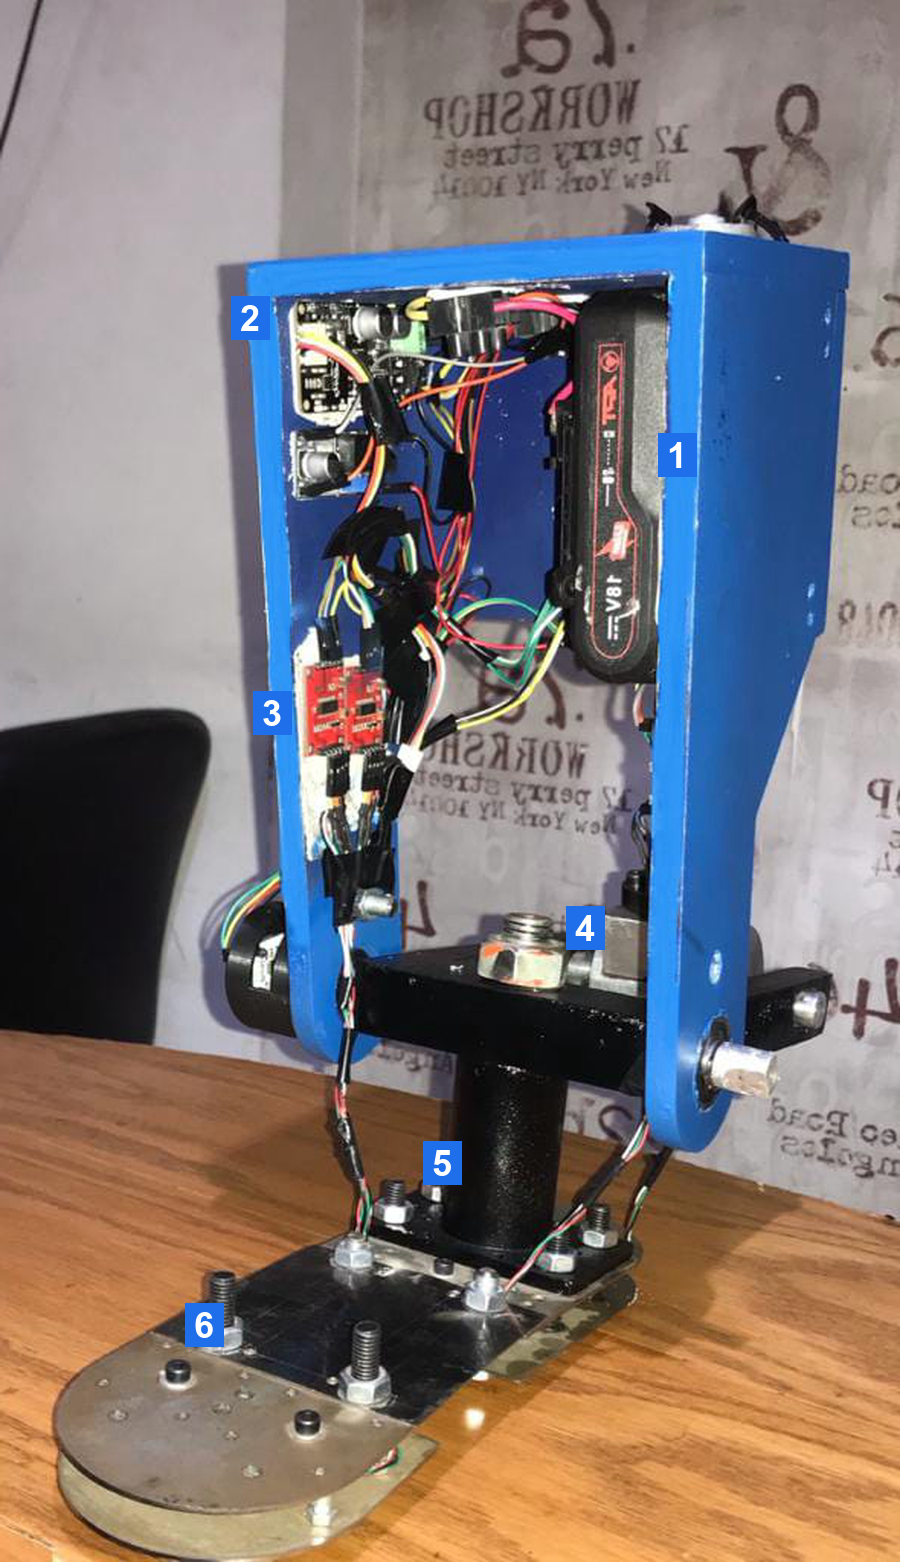
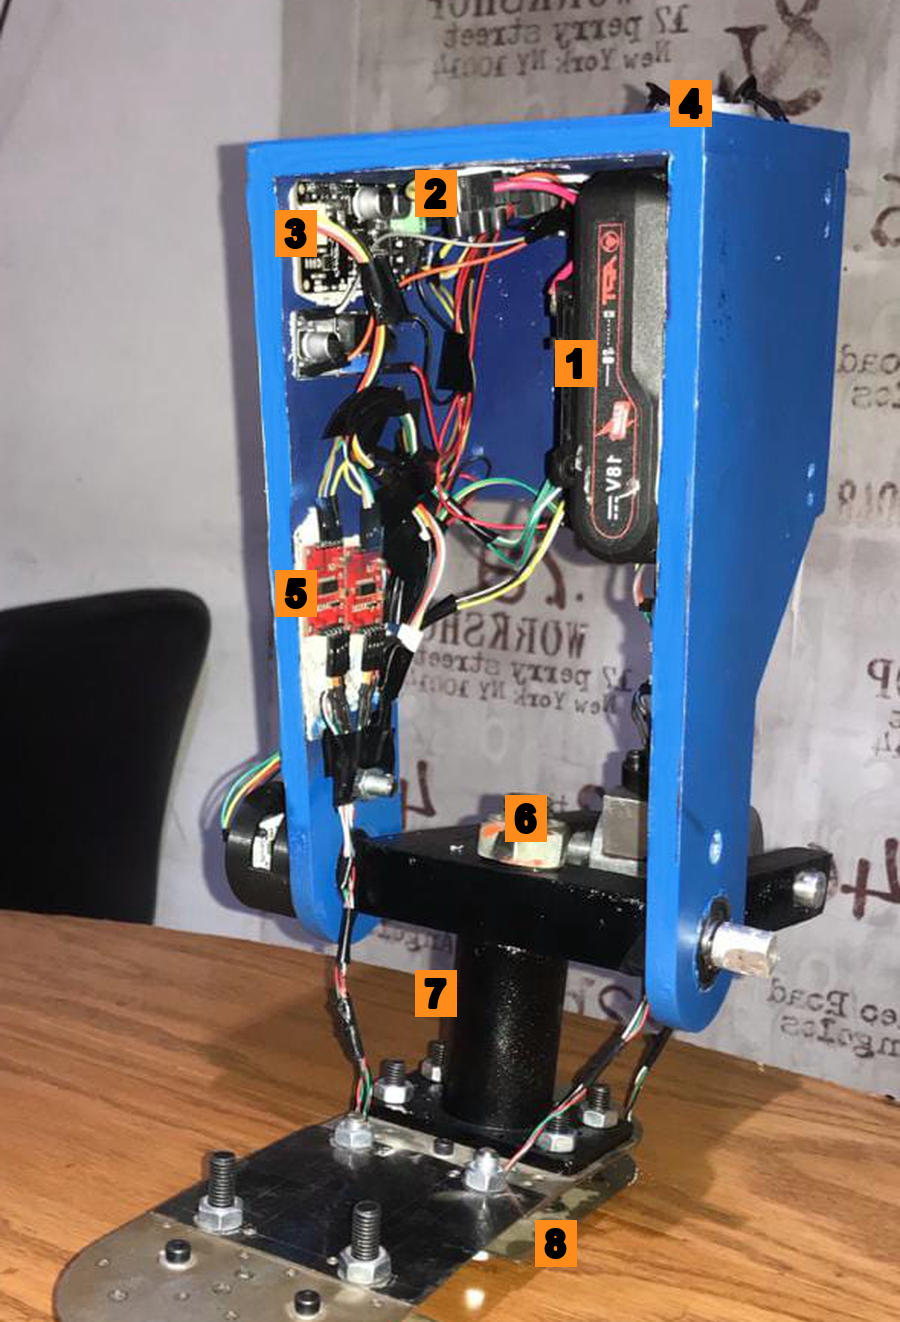
Unify title-image sizes, fix badge contrast, complete the annotation, rebuild How it works from the presentation
Title block: set a common display height on all three images instead of
mismatched percentages, so the row reads as one unit rather than three
oddly-sized panels.

Electronics-bay photo: badges were blue on a blue-painted frame, nearly
unreadable. Switched to high-contrast orange. Went from 6 labelled
components to 8, after zooming into each one rather than guessing:
battery, power connector, a small regulator board off the battery leads
(left unidentified rather than guessed, since it does not match the
presentation's own LM2596 reference photo), the RS-550S motor, the HX711
amplifiers, the ball-screw coupling, the shin housing, and the foot plate.
Cropped tighter for a better aspect-ratio match with the other two.

How it works: rebuilt from the team's own final-presentation diagrams
rather than my own abstraction. The control-loop diagram now carries the
same boxes, arrows and wording as their state-machine/PID block diagram
(slides 32 and 36), recoloured for legibility, with one spelling fix
(SESNORS -> SENSORS) and nothing else changed. Added their gait-cycle
phase diagram the same way. Both check out exactly against the firmware.

Added three of the presentation's own photos/charts that are not
copyrighted: strain-gauge placement on the real foot, the AS5600 encoder
at the joint, and the ankle-angle-vs-gait-cycle chart -- which lines up
almost exactly with the -6.5 to +13.7 degree range already worked out
from the raw encoder counts.
[…]

diff --git a/README.md b/README.md
@@ -4,9 +4,9 @@
 
 <table>
 <tr>
-<td width="33%" align="center"><img src="media/hardware/cad-rotation.gif" width="92%"></td>
-<td width="33%" align="center"><img src="media/hardware/ankle-assembled.png" width="100%"></td>
-<td width="33%" align="center"><img src="media/hardware/ankle-electronics-bay.png" width="100%"></td>
+<td width="33%" align="center"><img src="media/hardware/cad-rotation.gif" height="300"></td>
+<td width="33%" align="center"><img src="media/hardware/ankle-assembled.png" height="300"></td>
+<td width="33%" align="center"><img src="media/hardware/ankle-electronics-bay.png" height="300"></td>
 </tr>
 <tr>
 <td align="center"><i>As designed</i></td>
@@ -15,7 +15,7 @@
 </tr>
 </table>
 
-Inside the frame: **1** 18 V drill battery · **2** regulator and driver boards · **3** HX711 load cell amplifiers · **4** ball screw nut · **5** shin housing, ball screw inside · **6** foot plate, load cells underneath
+Inside the frame: **1** 18 V drill battery · **2** battery power connector · **3** small regulator board off the battery leads (exact chip not identified from the photo) · **4** RS-550S motor · **5** HX711 load-cell amplifiers · **6** ball screw nut · **7** shin housing, ball screw inside · **8** foot plate, load cells underneath, AS5600 encoder wiring at the joint
 
 > **Archived academic project, 2021.** This was our B.Sc. graduation project in Mechatronics Engineering at the Arab Academy for Science, Technology & Maritime Transport (AASTMT), Cairo. It is kept here as a record of the work. Nobody maintains it, and it is not a medical device.
 
@@ -37,44 +37,102 @@ So we asked a narrow question: could we build one locally, from parts available 
 
 ## How it works
 
-The ankle is a closed position loop with an outer layer that decides *what position to ask for*.
+Control is split into two layers, the way the team's own presentation laid it out: a high-level **state machine** decides which part of the gait cycle the wearer is in, and a low-level **PID loop** drives the motor to reach the angle that phase calls for.
 
 ```mermaid
 flowchart LR
-    TOE["2x load cell<br/>(toe)"] --> HXA[HX711]
-    HEEL["2x load cell<br/>(heel)"] --> HXB[HX711]
-    HXA --> GP{"gait phase<br/>toe / heel contact"}
-    HXB --> GP
-    GP --> TG["TrajGen<br/>picks trajectory segment"]
-    TG -->|"setpoint"| PID["PID loop"]
-    PID -->|"PWM + direction"| DRV["Cytron MD10C"]
-    DRV --> MOT["RS-550S motor"]
-    MOT --> SCREW["SFU1605 ball screw"]
-    SCREW --> JOINT["ankle joint"]
-    JOINT --> ENC["AS5600 encoder"]
-    ENC -->|"measured position"| PID
+    classDef hi fill:#dbeafe,stroke:#1f6feb,stroke-width:2px,color:#0b3d91
+    classDef lo fill:#dcfce7,stroke:#15803d,stroke-width:2px,color:#14532d
+    classDef drive fill:#fde68a,stroke:#b45309,stroke-width:2px,color:#78350f
+    classDef fb fill:#f3f4f6,stroke:#6b7280,stroke-width:2px,color:#1f2937
+
+    SM["State machine<br/>(high-level controller)"]:::hi --> WT["Walking trajectory<br/>(TrajGen)"]:::hi
+    WT -->|setpoint| SUM((" + / − ")):::lo
+    SUM --> PID["PID controller<br/>(low-level controller)"]:::lo
+    PID -->|desired angle response| DRV["H-bridge driver<br/>(Cytron MD10C)"]:::drive
+    DRV --> MOT["DC motor<br/>(RS-550S)"]:::drive
+    MOT --> JOINT[Ankle joint]:::drive
+    JOINT --> FOOT[Foot]:::drive
+    FOOT --> GND[Ground]:::drive
+
+    ENC["Magnetic encoder<br/>(AS5600)"]:::fb -->|position feedback| SUM
+    SG["Strain gauge sensors<br/>(load cells)"]:::fb -->|weight feedback| SM
 ```
 
 Reading it as a cycle:
 
-1. **Where is the wearer in their step?** Four load cells under the foot report toe and heel contact. The combination identifies the gait phase.
-2. **What angle should the ankle be at?** `TrajGen` plays the segment of the reference trajectory that belongs to that phase, one sample at a time. Each sample is the setpoint.
-3. **Get there.** The PID loop compares the setpoint against the encoder and drives the motor through the H-bridge. The ball screw turns rotation into the linear travel that moves the joint.
-4. **Measure and repeat.** The encoder closes the loop.
+1. **Where is the wearer in their step?** The strain gauges under the foot report weight distribution as heel and toe contact. That feeds the state machine, which is entirely what decides the gait phase, not a timer.
+2. **What angle should the ankle be at?** The trajectory generator plays the segment of the reference walking trajectory that belongs to that phase, one sample at a time. Each sample is the setpoint.
+3. **Get there.** The PID controller compares the setpoint against the measured position and drives the motor through the H-bridge. The output is the desired angle response, turned into PWM and a direction.
+4. **Measure and repeat.** The magnetic encoder closes the position loop; the strain gauges keep telling the state machine where the next phase begins.
 
-Every one of those steps is its own FreeRTOS task, so sensing, planning and control run concurrently rather than in one polling loop.
+Every one of those steps runs as its own FreeRTOS task, so sensing, planning and control run concurrently rather than in one polling loop.
+
+This diagram carries the same boxes, arrows and labels as the team's original control-strategy diagram (from the final presentation, slides 32 and 36) — recoloured for legibility and with one typo fixed (**"STRAIN GAUGES SESNORS"** → **SENSORS**). No wording or logic was changed. It checks out exactly against the firmware: `toe_cells`/`heel_cells` set `heel_state`/`toe_state`, `TrajGen` is the state machine picking a trajectory segment from those two booleans, and `pid_control.cpp` is the summing junction and PID block driving the Cytron driver.
+
+### The gait cycle it targets
+
+```mermaid
+flowchart TD
+    classDef top fill:#93c5fd,stroke:#1f6feb,stroke-width:2px,color:#0b3d91
+    classDef stance fill:#bbf7d0,stroke:#15803d,stroke-width:2px,color:#14532d
+    classDef swing fill:#fde68a,stroke:#b45309,stroke-width:2px,color:#78350f
+
+    GC[Gait cycle]:::top --> SP[Stance phase]:::stance
+    SP --> HS[Heel strike]:::stance --> FF[Foot flat]:::stance --> MS[Midstance]:::stance --> HO[Heel off]:::stance --> TO[Toe off]:::stance
+    TO --> SW[Swing phase]:::swing
+    SW --> IS[Initial swing]:::swing --> MDS[Mid swing]:::swing --> TS[Terminal swing]:::swing
+```
+
+Per the team's presentation, one full gait cycle averages 0.98–1 s: roughly 0.59–0.67 s of stance and 0.38–0.42 s of swing (about a 60/40 split, in line with published gait figures). Our own hardware takes about 5 seconds to play through the same trajectory — see [Limitations](#what-worked-and-what-didnt) for why.
+
+<details>
+<summary><b>Sensing, feedback and why an ESP32</b></summary>
+
+**Where the sensors actually are**, from the team's own photos rather than a schematic:
+
+<table>
+<tr>
+<td width="50%"><img src="media/hardware/strain-gauge-placement.png" width="100%"></td>
+<td width="50%"><img src="media/hardware/encoder-at-joint.png" width="100%"></td>
+</tr>
+<tr>
+<td align="center"><i>Strain gauge sensors 1–2 at the toe, 3–4 at the heel</i></td>
+<td align="center"><i>AS5600 magnetic encoder, mounted at the joint</i></td>
+</tr>
+</table>
+
+**Why ESP32 over the first Uno board**, from the presentation's own reasoning:
+
+- Sufficient I/O: 2 GPIO per load cell × 4 load cells = 8 pins, 1 PWM + 1 digital for the motor driver, 2 I²C pins for the AS5600 — 12 pins in total
+- WiFi and Bluetooth on-board
+- 32-bit core vs. the Uno's 8-bit ATmega328
+- 12-bit ADC vs. the Uno's 10-bit
+- Up to 16-bit hardware PWM vs. the Uno's 8-bit `analogWrite`
+
+One number here is worth a caveat: the presentation cites the ESP32 running at **160 MHz, "10x faster than an Arduino Uno"** (16 MHz × 10 = 160). The chip's commonly published maximum is **240 MHz** (about 15x the Uno) — 160 MHz is a real, selectable clock speed on this hardware, just not its ceiling, so "10x" understates it if the board was left at its default. Separately, the firmware's own PWM only uses 8-bit resolution (`LEDC_TIMER_13_BIT` is set to `8`, a leftover name from an earlier attempt) even though the chip can do more — the "16-bit" figure above is what the ESP32 is capable of, not what this project's motor PWM actually uses.
+
+</details>
 
 ---
 
 ## The ankle tracking a gait cycle
 
-This is a recording of the live telemetry, not of the ankle itself. The traces are joint position together with `heel_state` and `toe_state`, so it shows the controller working through a full cycle with contact detection running.
+This is a recording of the live telemetry, not of the ankle itself. The traces are joint position together with `heel_state` and `toe_state`, so it shows the controller working through a full cycle with contact detection running — the full system, state machine and PID loop together.
 
 <img src="media/demo/gait-cycle-trace.gif" width="50%">
 
 The original screen capture is at [`media/demo/gait-cycle-demo.webm`](media/demo/gait-cycle-demo.webm). GitHub will not play it inline from a repository path, so it downloads rather than streams, which is why the GIF is here instead.
 
-The hardware it was recorded from is pictured at the top of this page.
+The hardware it was recorded from is pictured at the top of this page. This is also the same recording behind the "Results of state machine" slide in the team's final presentation — same COM port, same timestamp, same window, matched frame for frame.
+
+### A second recording that didn't survive
+
+The presentation's "Control results" slide shows a different plot: `Target`, `Actual` and `PIDOut` traced over several repeated step cycles, from a separate session on the same machine and the same day. That is the trajectory-tracking demonstration on its own, without the gait-phase gating shown above. Only a still frame of it survived into the exported presentation file — the underlying video is not embedded in the `.pptx`, and it is not anywhere else on this machine either. We searched the entire project folder, Downloads, Videos, and OneDrive for it and came up empty.
+
+<img src="media/results/pid-tracking-target-actual.png" width="55%">
+
+If that original recording turns up somewhere, it belongs here as a second GIF alongside the one above.
 
 ---
 
@@ -272,6 +330,10 @@ raw = raw - ZeroClaib;                 // measured offset of the assembled joint
 To read the array in degrees, multiply by 360/4096, about 0.0879 degrees per count. The range of roughly -74 to +156 counts is therefore about -6.5 to +13.7 degrees at the encoder, which the ball screw and foot linkage map onto the anatomical ankle range.
 
 Our earlier AVR build did convert to degrees in firmware (`ang = raw * 0.087`) and ran the loop on that. The line is still there in the ESP32 source, commented out. If you compare the two builds, that is the difference to watch for: the same trajectory array means counts in one and degrees in the other.
+
+This is the same trajectory plotted in degrees, from the team's own presentation — peak of about +14° and a trough of about −7°, which is exactly the −6.5° to +13.7° range worked out above:
+
+<img src="media/results/ankle-angle-vs-gait-cycle.png" width="45%">
 
 ---
 
